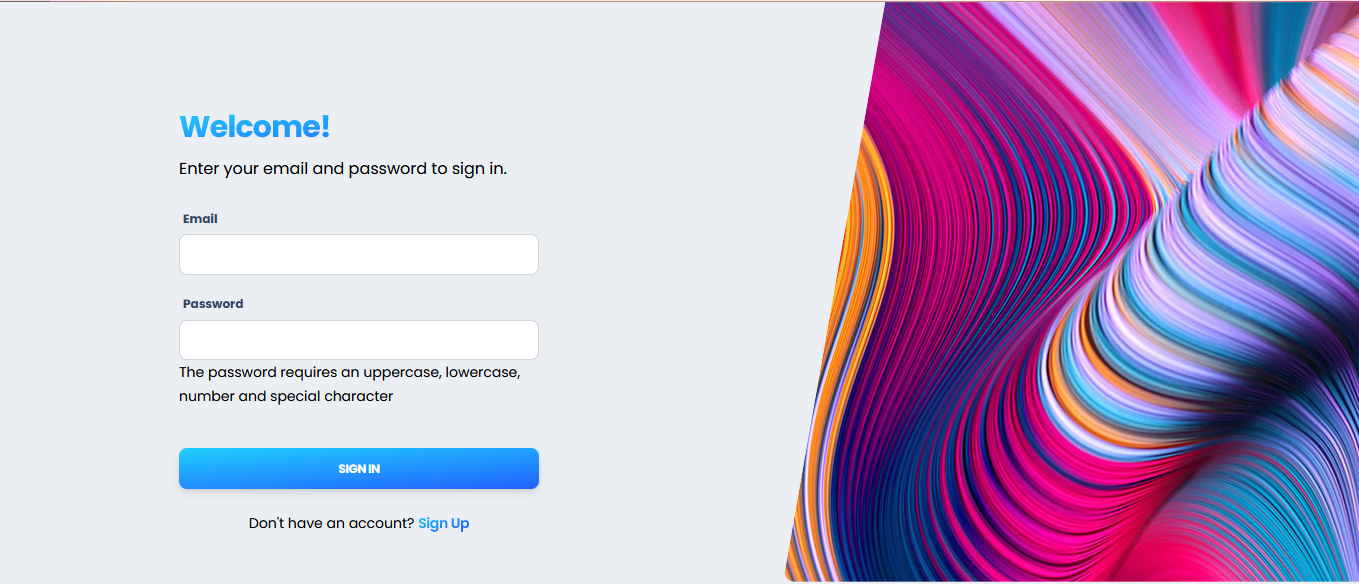
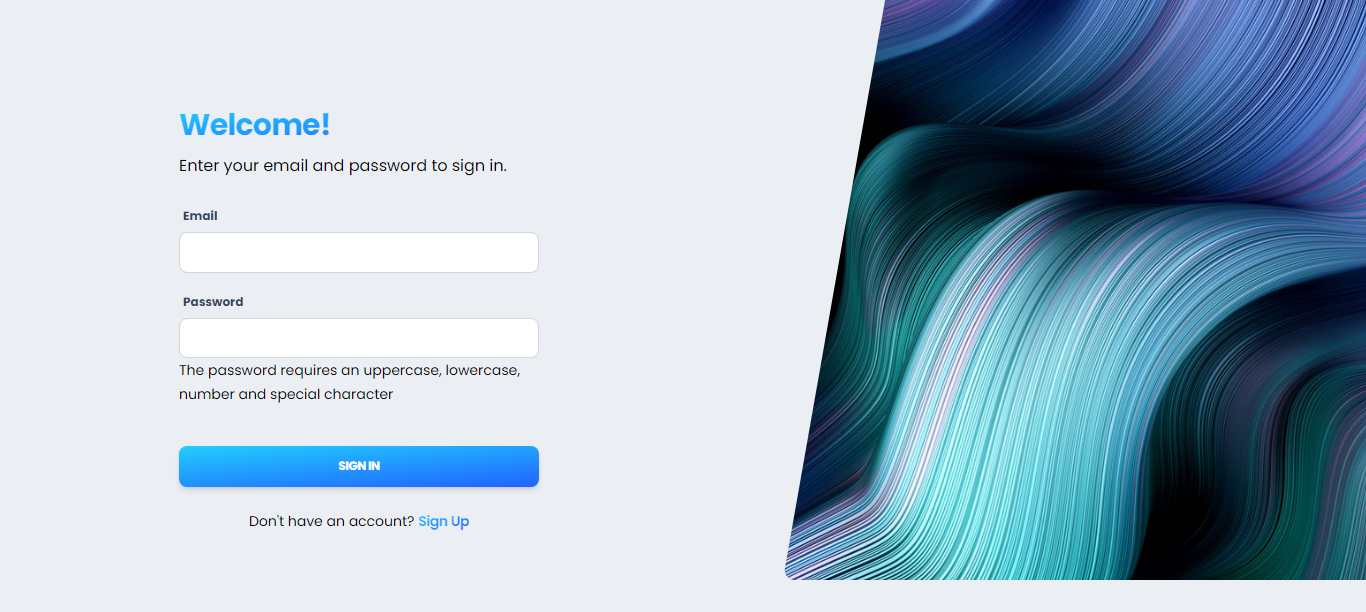
Update login page img and readme

diff --git a/resources/js/views/Login.vue b/resources/js/views/Login.vue
@@ -77,7 +77,7 @@ async function loginUser(){
               </div>
               <div class="w-full max-w-full px-3 lg:flex-0 shrink-0 md:w-6/12">
                 <div class="absolute top-0 hidden w-3/5 h-full -mr-32 overflow-hidden -skew-x-10 -right-40 rounded-bl-xl md:block">
-                  <div class="absolute inset-x-0 top-0 z-0 h-full -ml-16 bg-cover skew-x-10" style="background-image: url('img/curved-images/curved6.jpg')"></div>
+                  <div class="absolute inset-x-0 top-0 z-0 h-full -ml-16 bg-cover skew-x-10" style="background-image: url('img/curved-images/curved14.jpg')"></div>
                 </div>
               </div>
             </div>

diff --git a/README.md b/README.md
@@ -14,10 +14,10 @@
 
 Below is a list of things that need to be done that I didn't get time to complete. The circle at the beginning of a sentence denotes the points to give priority to:
 
-1. The dashboard needs more features, (graph etc).
+1. The dashboard needs more features, (graph, etc).
 2. Incorporate tooltips for the dashboard to display the dates (only the first "x" amount displays, and the rest must be in a tooltip).
-3. The popup/toast on the calendar page displays behind the calendar after saving the countries for a given day. (css issue).
-4. * A random color is being generated for each country when the database is seeded, but the country colors can look similar (I think it's a better option to rather display country flags in the legend as well as in the calendar).
+3. The popup/toast on the calendar page displays behind the calendar after saving the countries for a given day. [css issue].
+4. * A random color is being generated for each country when the database is seeded, but the country colors can look similar. (I think it's a better option to rather display country flags in the legend as well as in the calendar).
 5. * Ability to change the calendar year and localisation for the calendar. (The javascript package being used (day.js) does support localisation).
 6. * Incorporate tooltips when the user hovers over a specifc day in the calendar.
 7. * Determine how to show the assigned countries for the days that fall outside of the current month (the greyed out blocks).
